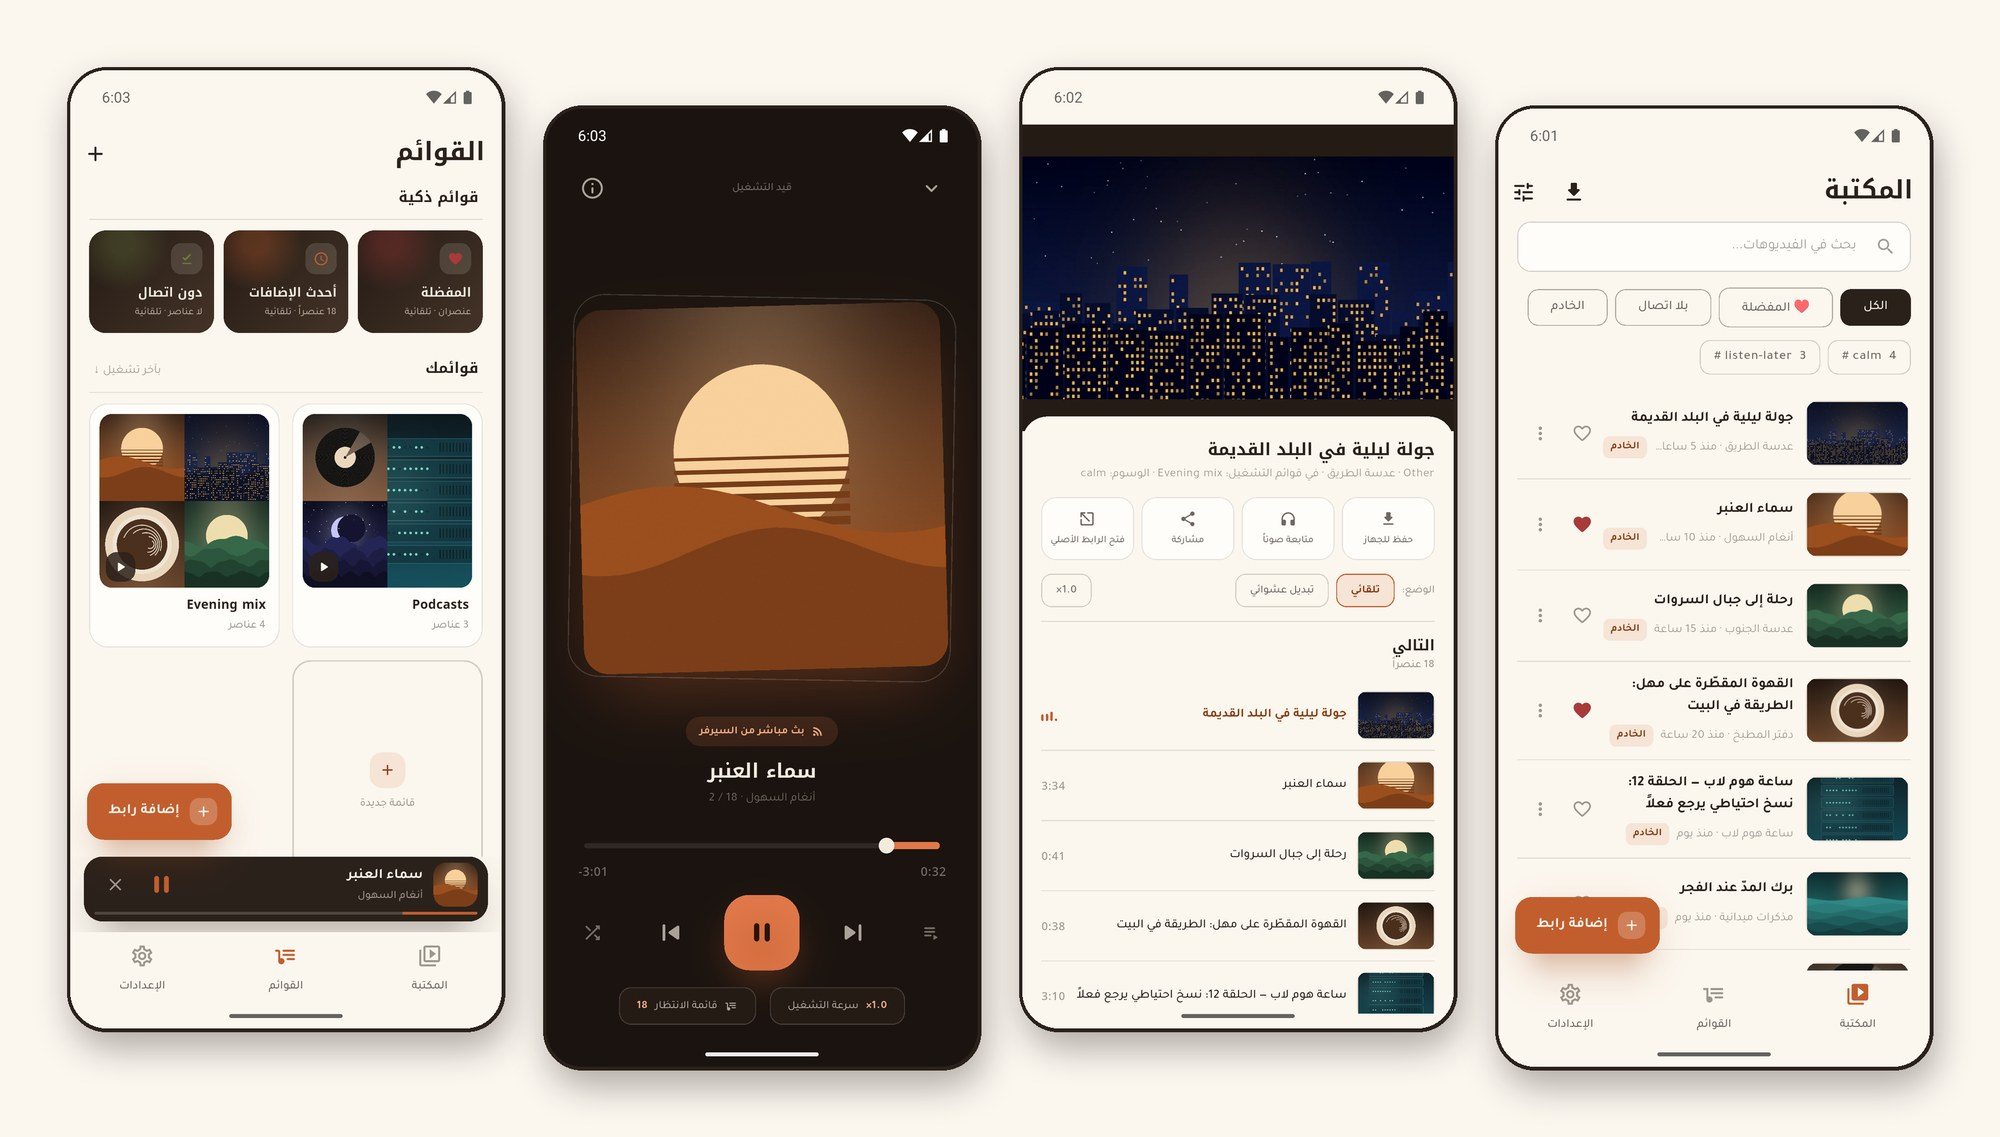
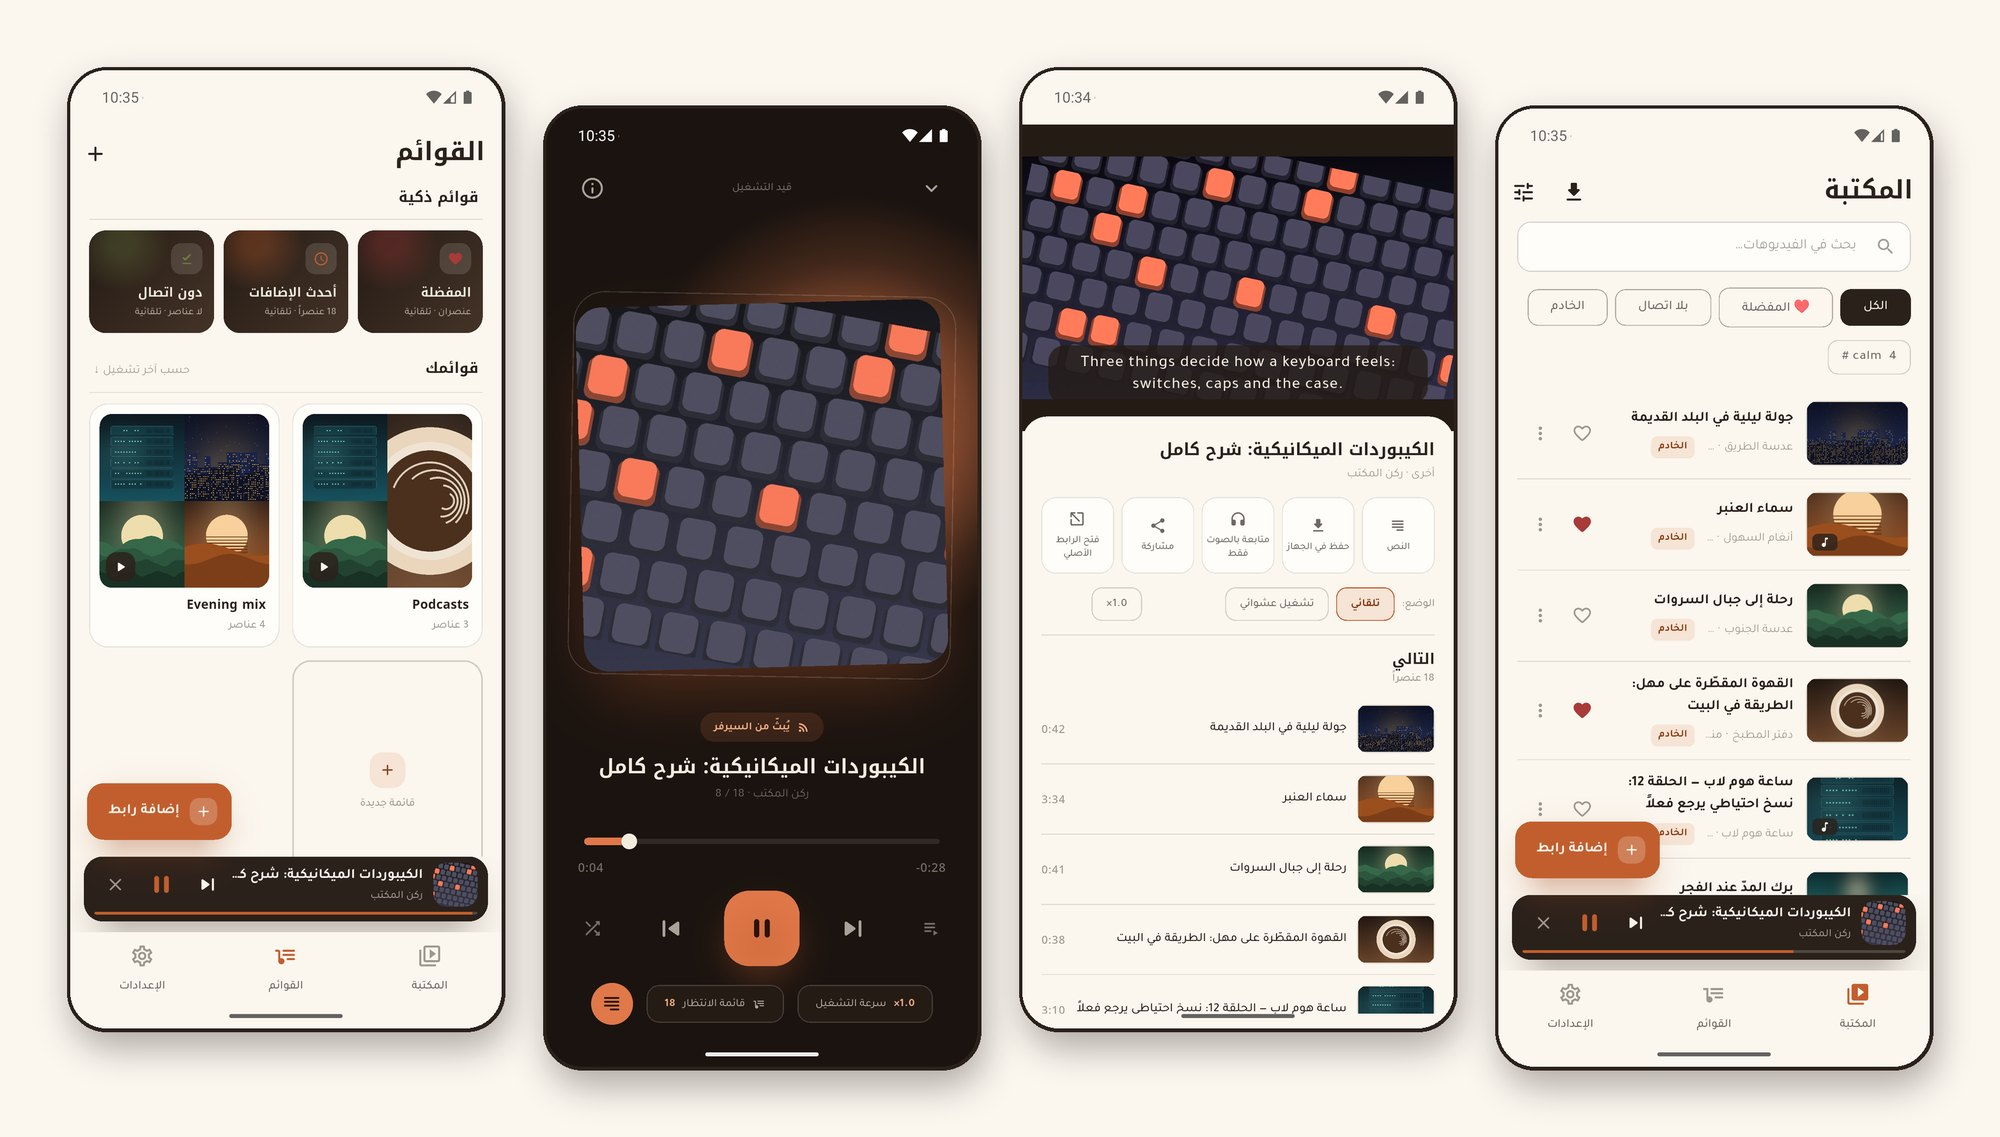
docs: fresh screenshots, a tablet strip, and tablets and subtitles in both READMEs

diff --git a/README.ar.md b/README.ar.md
@@ -14,13 +14,13 @@
 السيرفر وشغّله بثاً، أو اسحبه للجهاز ودع السيرفر ينظّف نفسه. ويستطيع MeTube
 Super أيضاً أن **يتابع قناة**: ينزّل سيرفرك كل مقطع جديد وحده، ويخبرك التطبيق
 حين يصل. ويستطيع أيضاً **البحث داخل مقاطعك** فيجد ما قيل فيها، لا عناوينها
-وحدها. مكتوبان بـFlutter في مستودع واحد، بالعربية والإنجليزية، وبرمجية حرة
-برخصة GPL.
+وحدها. مكتوبان بـFlutter في مستودع واحد، بالعربية والإنجليزية، للجوال
+والتابلت معاً، وبرمجية حرة برخصة GPL.
 
 <p align="center">
-  <img src="docs/screenshots/hero-ar.jpg" alt="MeTube Super: المكتبة، ومشغل الفيديو مع قائمة «التالي»، ومشغل الصوت ليلاً، وقوائم التشغيل">
+  <img src="docs/screenshots/hero-ar.jpg" alt="MeTube Super: المكتبة، ومقطع فيديو يُعرض مع ترجمته وقائمة «التالي»، ومشغل الصوت ليلاً، وقوائم التشغيل">
 </p>
-<p align="center"><sub>MeTube Super — المكتبة الموحَّدة، والبث مع قائمة «التالي»، ومشغل الصوت ليلاً، وقوائم التشغيل. كل عنوان وغلاف هنا مخترَع.</sub></p>
+<p align="center"><sub>MeTube Super — المكتبة الموحَّدة، وبثّ فيديو مع ترجمته وقائمة «التالي»، ومشغل الصوت ليلاً، وقوائم التشغيل. كل عنوان وغلاف هنا مخترَع.</sub></p>
 
 <p align="center">
   <img src="docs/screenshots/lite-share.gif" width="300" alt="MeTube Lite: رابط يُشارَك إلى التطبيق، فينزّله السيرفر، ويسحبه الهاتف، ثم يُحذف من السيرفر">
@@ -37,7 +37,7 @@ Super أيضاً أن **يتابع قناة**: ينزّل سيرفرك كل مق
 | بعد اكتمال التحميل | يسحبه للجهاز ثم **يحذفه من السيرفر** | **يُبقيه على السيرفر** |
 | المكتبة | مسح للمجلد المحلي | `/history` والفهرس المحلي موحَّدين في قائمة واحدة |
 | التشغيل | ملفات محلية | بثّ من السيرفر **و**ملفات محلية |
-| الحصري | خيار الاقتصار على Wi‑Fi، وتنظيف السيرفر | اشتراكات القنوات، والبحث داخل المقاطع، ووسوم، وتحميل دفعي، و«إتاحة دون اتصال»، وتبديل عناوين السيرفر |
+| الحصري | خيار الاقتصار على Wi‑Fi، وتنظيف السيرفر | اشتراكات القنوات، والبحث داخل المقاطع، وترجمة فوق الفيديو، ووسوم، وتحميل دفعي، و«إتاحة دون اتصال»، وتبديل عناوين السيرفر |
 
 التطبيقان يتقاسمان حزم النواة والوسائط والتصميم نفسها، ويصدران
 **بالعربية والإنجليزية** بتخطيط يبدأ من اليمين.
@@ -79,11 +79,20 @@ Super أيضاً أن **يتابع قناة**: ينزّل سيرفرك كل مق
 يتخطّى ما ليس قصيراً، ونقرة توقف، ونقرتان تضيفان للمفضّلة، وله رقاقته في
 المكتبة.
 
+**التابلت.** يستفيد التطبيقان من مساحة التابلت، عمودياً كان أو أفقياً، بدل
+أن يمطّا تخطيط الجوال: فينتقل التنقّل إلى شريط جانبي، وتُفتح الإعدادات في
+لوحتين، وتتوزّع عروض المكتبة على أعمدة وتظهر القائمة جدولاً. وحين يكون
+التابلت أفقياً تجاور لوحةُ «قيد التشغيل» المكتبةَ، ويُعرض الفيديو بجانب
+تفاصيله وقائمة «التالي». وتشمل الميزة التابلتات الصغيرة بقياس 8 بوصات، ويبقى
+الجوال على تخطيطه المعتاد.
+
 **المفضّلة والقوائم.** قلب على كل بطاقة؛ وقوائم تنشئها وتعيد ترتيبها بالسحب
 وتشغّلها بالترتيب أو عشوائياً؛ وقوائم ذكية تصون نفسها — المفضّلة، وأحدث
 الإضافات، و(في Super) كل ما هو متاح دون اتصال.
 
-**الإعدادات والأمان.** الجودة الافتراضية، والمظهر (نظام أو فاتح أو داكن)،
+**الإعدادات والأمان.** تبدأ الإعدادات بصفحة رئيسة قصيرة من ثلاث مجموعات
+(السيرفر والتطبيق والبيانات)، يعرض كل صف فيها قيمة الإعداد الحالية. وفيها
+الجودة الافتراضية، والمظهر (نظام أو فاتح أو داكن)،
 واللغة — عربية أو إنجليزية، تُوافق لغة الهاتف أول تشغيل. والنسخ الاحتياطي
 **نصّي لا يحمل سرّاً**، يُكتب تلقائياً بعد كل تغيير، ويحتفظ بآخر سبع نسخ
 مؤرَّخة، وتستعيد باختيار تاريخ، ويمكن تصديره؛ والتنسيقات المشفّرة الثلاثة
@@ -118,6 +127,9 @@ Super أيضاً أن **يتابع قناة**: ينزّل سيرفرك كل مق
   واحد في إعداده، في دليل الإعداد) شمل ذلك كل ما ينزّله، والاشتراكات معه.
 - **اقرأ النص**: المقطع الذي له نص يفتحه بجانب مشغل الصوت أو الفيديو، والسطر
   الذي يُقال يُعلَّم أثناء التشغيل، والضغط على أي سطر ينقلك إليه.
+- **ترجمة فوق الفيديو**: المقطع الذي له نص يمكنه عرض كلماته فوق الصورة لحظة
+  نطقها، بثلاثة أحجام وبخلفية تختارها. والمقطع الذي له ترجمة بلغتين ينتقل
+  بينهما بزر واحد (وفي القِصار بالضغط على الكلمات نفسها)، ويُحفظ اختيارك.
 - **الكوكيز من الجوال** للمواقع التي تطلب تسجيل دخول: اختر الملفات المصدَّرة
   من متصفحك، لعدة منصات معاً، فتُدمج في الملف الواحد الذي يحفظه السيرفر.
 - **يُبقي الملف على السيرفر**، ويدمج `/history` مع الفهرس المحلي في مكتبة
@@ -137,6 +149,11 @@ Super أيضاً أن **يتابع قناة**: ينزّل سيرفرك كل مق
 
 ## لقطات
 
+**على التابلت** — أفقياً: المكتبة وبجانبها لوحة «قيد التشغيل»، وعمودياً:
+المكتبة في عمودين:
+
+![MeTube Super على التابلت: المكتبة بجانب لوحة «قيد التشغيل»، والمكتبة في عمودين والتابلت عمودي](docs/screenshots/tablet.jpg)
+
 **البحث داخل المقاطع** (MeTube Super): كلمة وُجدت داخل ثلاثة مقاطع، والنص
 يتبع التشغيل، والبحث نفسه ليلاً:
 
@@ -147,13 +164,13 @@ Super أيضاً أن **يتابع قناة**: ينزّل سيرفرك كل مق
 
 ![قائمة الاشتراكات، وورقة المتابعة، وإشعار الوصول](docs/screenshots/subscriptions.jpg)
 
+<details>
+<summary><strong>شاشات أخرى</strong> — المشغّلات، والمكتبات، وقوائم التشغيل، والتحديد المتعدد</summary>
+<br>
+
 **المشغّلات** — مشغل الصوت، وقائمة «التالي» ليلاً، ومسار المقاطع الطولية:
 
 ![مشغل الصوت نهاراً، وقائمة التالي ليلاً، ومشغل المقاطع القصيرة](docs/screenshots/players.jpg)
-
-<details>
-<summary><strong>شاشات أخرى</strong> — المكتبات، وقوائم التشغيل، والتحديد المتعدد، ومشغل الفيديو</summary>
-<br>
 
 **المكتبات** — MeTube Lite نهاراً وليلاً، وMeTube Super ليلاً مع المشغل المصغّر:
 
@@ -162,10 +179,6 @@ Super أيضاً أن **يتابع قناة**: ينزّل سيرفرك كل مق
 | قوائم التشغيل | قائمة واحدة | التحديد المتعدد |
 |---|---|---|
 | ![قوائم التشغيل، والذكية فوق قوائمك](docs/screenshots/super-playlists-day.png) | ![قائمة تشغيل مع تشغيل الكل والخلط والصوت فقط](docs/screenshots/super-playlist.png) | ![عدة عناصر محددة لقائمة أو وسم أو حذف](docs/screenshots/super-select.png) |
-
-| مشغل الفيديو | قوائم التشغيل ليلاً | المشغل المصغّر |
-|---|---|---|
-| ![بث فيديو والقائمة تحته](docs/screenshots/super-player.png) | ![قوائم التشغيل ليلاً](docs/screenshots/super-playlists-night.png) | ![المكتبة مع المشغل المصغّر](docs/screenshots/super-miniplayer.png) |
 
 </details>
 

diff --git a/README.md b/README.md
@@ -15,13 +15,13 @@ the server and stream it, or pull it to the device and let the server clean
 itself up. MeTube Super can also **follow a channel**: your server downloads
 each new video by itself, and the app tells you when it arrives. It can also
 **search inside your clips**, finding what was said in them and not only their
-titles. Written in Flutter as one monorepo, in Arabic and English, and free
-software under the GPL.
+titles. Written in Flutter as one monorepo, in Arabic and English, for phones
+and tablets alike, and free software under the GPL.
 
 <p align="center">
-  <img src="docs/screenshots/hero.jpg" alt="MeTube Super: the library, the video player with its queue, the audio player at night, and playlists">
+  <img src="docs/screenshots/hero.jpg" alt="MeTube Super: the library, a video playing with its subtitles and queue, the audio player at night, and playlists">
 </p>
-<p align="center"><sub>MeTube Super — the merged library, streaming with an up-next queue, the audio player at night, and playlists. Every title and cover here is invented.</sub></p>
+<p align="center"><sub>MeTube Super — the merged library, a video streaming with its subtitles and up-next queue, the audio player at night, and playlists. Every title and cover here is invented.</sub></p>
 
 <p align="center">
   <img src="docs/screenshots/lite-share.gif" width="300" alt="MeTube Lite: a link is shared to the app, the server downloads it, the phone pulls the file and the server is cleaned up">
@@ -39,7 +39,7 @@ software under the GPL.
 | After a download completes | pulls it to the device, then **deletes it from the server** | **keeps it on the server** |
 | Library | a scan of the local folder | `/history` + the local index, merged into one list |
 | Playback | local files | streaming from the server **and** local files |
-| Exclusive | an optional Wi-Fi-only rule, server cleanup | channel subscriptions, search inside clips, tags, batch downloads, "make available offline", server switching |
+| Exclusive | an optional Wi-Fi-only rule, server cleanup | channel subscriptions, search inside clips, subtitles over the video, tags, batch downloads, "make available offline", server switching |
 
 Both apps share the same core, media and design packages, and both ship in
 **Arabic and English** with a right-to-left-first layout.
@@ -87,12 +87,20 @@ audio **from the same second**.
 full-screen lane that skips over everything that is not a short, with a tap to
 pause, a double tap to favourite, and its own chip in the library.
 
+**Tablets.** On a tablet, upright or on its side, both apps use the room
+instead of stretching the phone layout: navigation moves to a side rail,
+settings open in two panes, and the library's views spread into columns, with
+the list shown as a table. Held sideways, a "Now playing" panel sits beside the
+library, and a video plays beside its details and queue. Small 8-inch tablets
+count too; phones keep their own layout.
+
 **Favourites and playlists.** A heart on every card; playlists you create,
 reorder by dragging, play in order or shuffled; and smart playlists that keep
 themselves — favourites, latest additions, and (in Super) everything available
 offline.
 
-**Settings and safety.** Default quality, theme (system, light or dark), and
+**Settings and safety.** Settings open on a short home page in three groups
+(server, app, data), each row showing the setting as it stands. Default quality, theme (system, light or dark), and
 language — Arabic or English, matched to the phone on first launch. Backups
 are plain text holding no secret, written by themselves after every change,
 keeping the last seven by date, restorable by picking a date, and exportable;
@@ -136,6 +144,10 @@ that again at any time.
 - **Read along**: a clip with a transcript opens it beside the audio or video
   player, with the line being said marked as it plays and a tap on any line
   to jump there.
+- **Subtitles over the video**: a clip with a transcript can show its words over
+  the picture as they are said, in three sizes and with a choice of background.
+  A clip with subtitles in two languages switches between them with one button
+  (in the shorts, a tap on the words themselves), and the choice is kept.
 - **Cookies from the phone** for the sites that want a login: pick the files
   exported from your browser, several platforms at once, and they are merged
   into the single file the server keeps.
@@ -156,6 +168,11 @@ that again at any time.
 
 ## Screenshots
 
+**On a tablet** — held sideways, the library with the "Now playing" panel
+beside it; upright, the library in two columns:
+
+![MeTube Super on a tablet: the library beside the Now playing panel, and the library upright in two columns](docs/screenshots/tablet.jpg)
+
 **Search inside clips** (MeTube Super): a word found inside three clips, the
 transcript following playback, and the same search at night:
 
@@ -166,14 +183,14 @@ and the notice when their videos arrive:
 
 ![The subscriptions list, the follow sheet, and the arrivals notice](docs/screenshots/subscriptions.jpg)
 
+<details>
+<summary><strong>More screens</strong> — the players, the libraries, playlists, batch selection</summary>
+<br>
+
 **The players** — the audio player, the up-next queue at night, and the
 lane for portrait clips:
 
 ![The audio player by day, the queue at night, and the shorts player](docs/screenshots/players.jpg)
-
-<details>
-<summary><strong>More screens</strong> — the libraries, playlists, batch selection, the video player</summary>
-<br>
 
 **The libraries** — MeTube Lite by day and by night, and MeTube Super at night
 with the mini player:
@@ -183,10 +200,6 @@ with the mini player:
 | Playlists | A playlist | Batch selection |
 |---|---|---|
 | ![Playlists, with smart lists above your own](docs/screenshots/super-playlists-day.png) | ![One playlist, with play-all, shuffle and audio-only](docs/screenshots/super-playlist.png) | ![Several items selected for a playlist, a tag or deletion](docs/screenshots/super-select.png) |
-
-| Video player | Playlists at night | Mini player |
-|---|---|---|
-| ![Streaming a video with the queue beneath it](docs/screenshots/super-player.png) | ![Playlists at night](docs/screenshots/super-playlists-night.png) | ![The library with the mini player](docs/screenshots/super-miniplayer.png) |
 
 </details>
 
